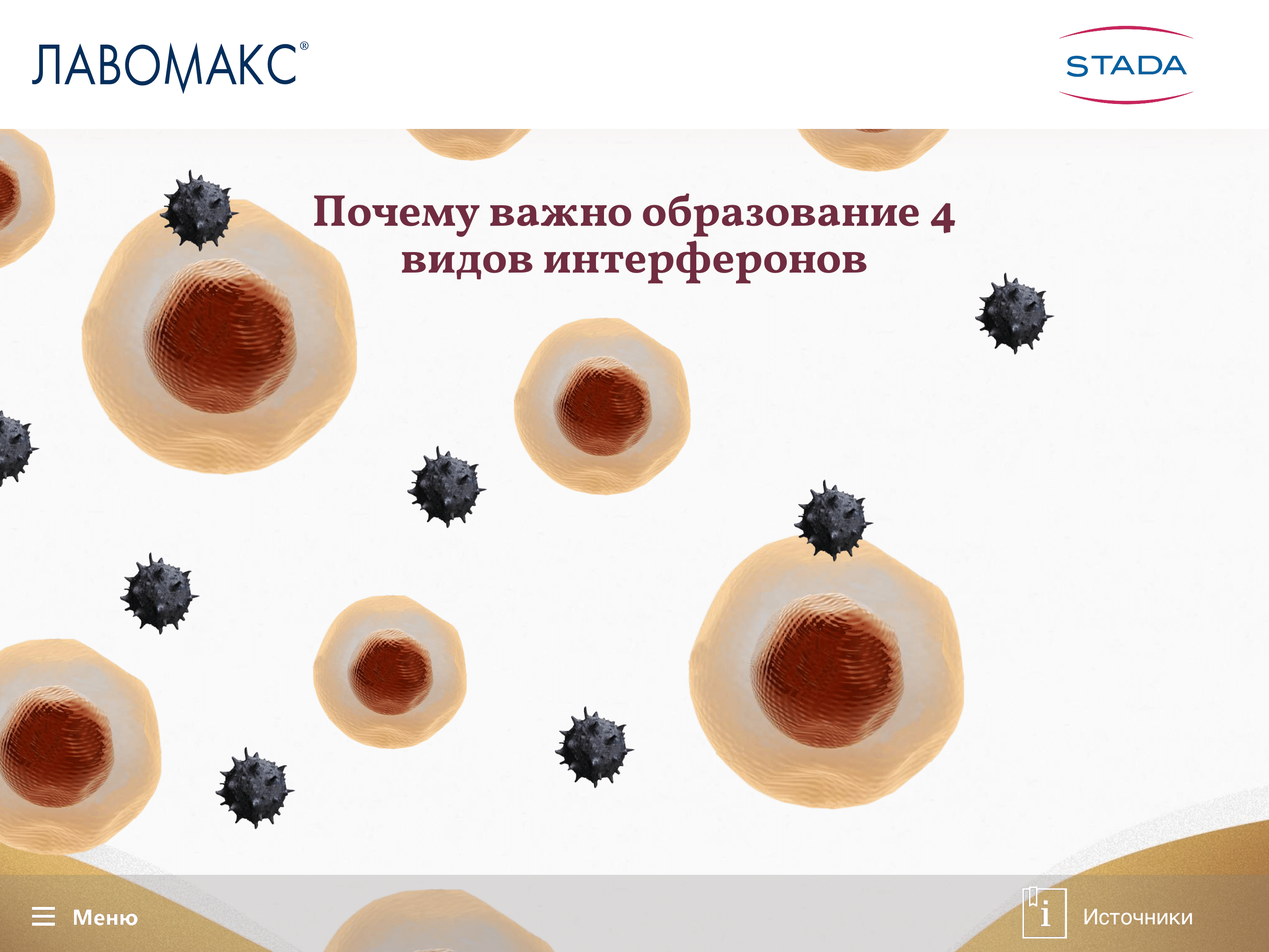
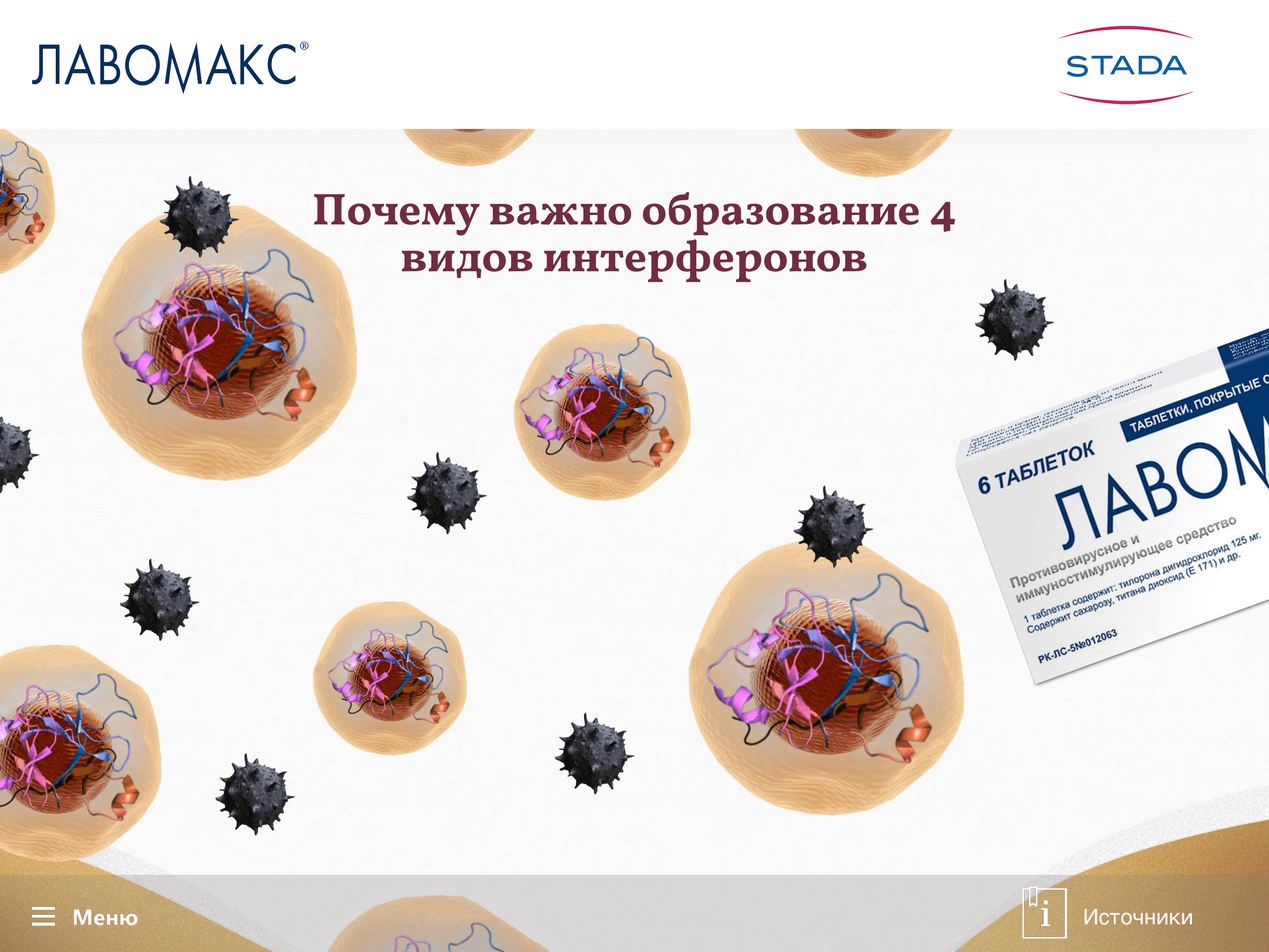
slide-06

diff --git a/app/scripts/slide-06.js b/app/scripts/slide-06.js
@@ -1,4 +1,34 @@
 /* global cegedim*/
 $(function() {
+    var dataClick = 0;
 
+   var tab = function () {
+        if (dataClick === 0) {
+            document.getElementsByClassName('state-1')[0].classList.add('active');
+            document.getElementsByClassName('state-3')[0].classList.add('active');
+            document.getElementsByClassName('state-4')[0].classList.add('active');
+        }
+
+       if (dataClick === 1) {
+           document.getElementsByClassName('pack')[0].classList.add('active');
+       }
+
+       if (dataClick === 2) {
+           document.getElementsByClassName('state-2')[0].classList.add('active');
+       }
+
+       if (dataClick === 3) {
+           document.getElementsByClassName('state-2')[0].classList.remove('active');
+       }
+       if (dataClick === 4) {
+           document.getElementsByClassName('state-1')[0].classList.remove('active');
+       }
+       if (dataClick === 5) {
+           document.getElementsByClassName('state-3')[0].classList.remove('active');
+       }
+
+       dataClick = dataClick + 1;
+    }
+
+    document.getElementsByClassName('slide-06')[0].addEventListener('click', tab);
 });

diff --git a/app/styles/slide-06.scss b/app/styles/slide-06.scss
@@ -2,9 +2,80 @@ $slide: 'slide-06';
 @import '_engine';
 .#{$slide} {
 
+	.code {
+		padding: 44px 252px 0 252px;
+	}
+
+	.slide-title {
+		text-align: center;
+		line-height: 117%;
+	}
+
+	.state {
+		position: absolute;
+		top: 0;
+		left: 0;
+		width: 1024px;
+		opacity: 0;
+		transition: opacity 1s;
+
+		&.active {
+			transition: opacity 1s;
+			opacity: 1;
+		}
+	}
+
+	.state-0 {
+		width: 771px;
+	}
+
+	.state-1 {
+		width: 853px;
+	}
+
+	.state-3 {
+		width: 576px;
+		left: 129px;
+		top: 139px;
+	}
+
+	.state-4 {
+		width: 532px;
+		left: 175px;
+		top: 388px;
+	}
+
+	.pack {
+		position: absolute;
+		width: 468px;
+		top: 220px;
+		right: -468px;
+
+
+		&.active {
+			animation-name: pack-active;
+			animation-duration: 3s;
+			right: -209px;
+		}
+	}
+
+
 }
 // animations
 .#{$slide} {
+	@keyframes pack-active {
+		from {
+			right: -468px;
+		}
+
+		to {
+			right: -209px;
+		}
+
+		50% {
+			right: 20%;
+		}
+	}
 
 
 // inital state

diff --git a/app/html/slide-06.html b/app/html/slide-06.html
@@ -1,4 +1,17 @@
 @@include('header.html', {"slide-id": "slide-06"})
+<div class="code" data-click="0">
+	<div class="slide-title">
+		Почему важно образование 4 видов интерферонов
+	</div>
+	<img src="../media/images/slide-06/state-0.png" alt="" class="state state-0 active">
+	<img src="../media/images/slide-06/state-2.png" alt="" class="state state-2">
+
+	<img src="../media/images/slide-06/state-1.png" alt="" class="state state-1">
+	<img src="../media/images/slide-06/state-3.png" alt="" class="state state-3">
+	<img src="../media/images/slide-06/state-4.png" alt="" class="state state-4">
+
+	<img src="../media/images/slide-06/pack.png" alt="" class="pack">
+</div>
 <!-- main pop-up -->
 <div class="popup" id="popup-info">
 	<div class="close"></div>
